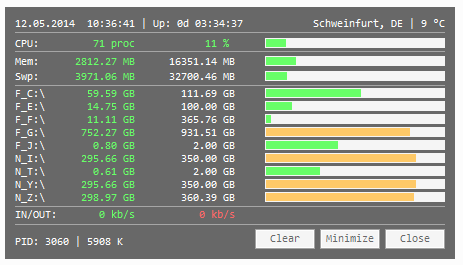
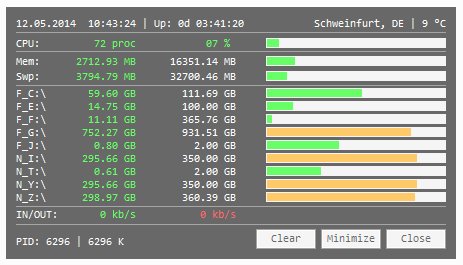
Update to v0.8.2
Update README
Update Screenshot
Update src\htopmini

diff --git a/README.md b/README.md
@@ -17,11 +17,12 @@ Small System-Info Tool via AutoHotkey
 
 
 ## Info
-* Version: v0.8.1
+* Version: v0.8.2
 * URL: [AHK Thread](http://ahkscript.org/boards/viewtopic.php?f=6&t=254)
 
 
 ## Changelog
+* 0.8.2 | Click to open Drive in Explorer, Update Window
 * 0.8.1 | Bugfixes & Improvements
 * 0.8.0 | Clear Memory, Add SWP, Bugfixes
 * 0.7.6 | Add CPU Load, Bugfixes
